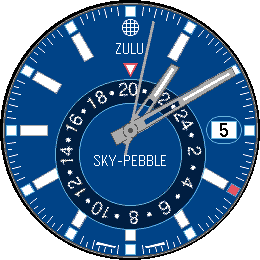
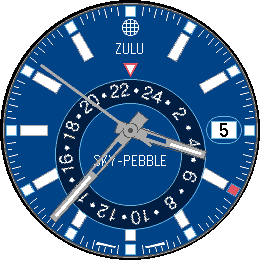
Add Bluetooth disconnect indicator in date window
When Bluetooth disconnects, the date window at 3 o'clock shows a red procedurally-drawn Bluetooth rune (persistent until reconnected) and fires a double-pulse vibration. Reconnection silently restores the date display. Priority order in the date window is: battery (tap) > BT disconnect > date.

Connection state is peeked before window_stack_push so the first frame is correct even if the watch launches while disconnected.

Also updates CLAUDE.md and README.md to document BT indicator and the previously-added seconds hand auto-disable feature.

Changed region(s): [[0.1846, 0.0615, 0.9231, 0.8615], [0.1538, 0.2462, 0.2769, 0.3385]]

diff --git a/src/c/main.c b/src/c/main.c
@@ -68,6 +68,9 @@ static AppTimer *s_battery_timer = NULL;
 static bool s_seconds_active = true;
 static AppTimer *s_seconds_timer = NULL;
 
+// Bluetooth connection state
+static bool s_bt_connected = true;
+
 // Pre-allocated paths: static dial elements (computed once in window_load)
 static GPath *s_month_paths[12];
 static GPoint s_month_pts[12][4];
@@ -449,6 +452,21 @@ static void draw_date_window(GContext *ctx, int mday) {
         graphics_draw_text(ctx, bat_buf,
             fonts_get_system_font(FONT_KEY_GOTHIC_18_BOLD),
             text_rect, GTextOverflowModeFill, GTextAlignmentCenter, NULL);
+    } else if (!s_bt_connected) {
+        // Draw Bluetooth rune in red (disconnected indicator)
+        graphics_context_set_stroke_color(ctx, GColorRed);
+        graphics_context_set_stroke_width(ctx, 1);
+        int h = 6, w = 3;
+        // Vertical line
+        graphics_draw_line(ctx, GPoint(cx, cy - h), GPoint(cx, cy + h));
+        // Lower-left to top
+        graphics_draw_line(ctx, GPoint(cx - w, cy + h / 2), GPoint(cx, cy - h));
+        // Top to lower-right
+        graphics_draw_line(ctx, GPoint(cx, cy - h), GPoint(cx + w, cy + h / 2));
+        // Upper-left to bottom
+        graphics_draw_line(ctx, GPoint(cx - w, cy - h / 2), GPoint(cx, cy + h));
+        // Bottom to upper-right
+        graphics_draw_line(ctx, GPoint(cx, cy + h), GPoint(cx + w, cy - h / 2));
     } else {
         char date_buf[4];
         snprintf(date_buf, sizeof(date_buf), "%d", mday);
@@ -637,6 +655,20 @@ static void activate_seconds(void) {
     }
 }
 
+// ============================================================================
+// BLUETOOTH CONNECTION
+// ============================================================================
+
+static void bluetooth_callback(bool connected) {
+    s_bt_connected = connected;
+    if (!connected) {
+        vibes_double_pulse();
+    }
+    if (s_canvas_layer) {
+        layer_mark_dirty(s_canvas_layer);
+    }
+}
+
 static void accel_data_handler(AccelData *data, uint32_t num_samples) {
     if (num_samples < 2) return;
 
@@ -784,6 +816,10 @@ static void init(void) {
         .load = main_window_load,
         .unload = main_window_unload
     });
+    connection_service_subscribe((ConnectionHandlers) {
+        .pebble_app_connection_handler = bluetooth_callback
+    });
+    s_bt_connected = connection_service_peek_pebble_app_connection();
     window_stack_push(s_main_window, true);
     tick_timer_service_subscribe(SECOND_UNIT, tick_handler);
     accel_data_service_subscribe(25, accel_data_handler);
@@ -792,6 +828,7 @@ static void init(void) {
 }
 
 static void deinit(void) {
+    connection_service_unsubscribe();
     accel_data_service_unsubscribe();
     if (s_battery_timer) { app_timer_cancel(s_battery_timer); s_battery_timer = NULL; }
     if (s_seconds_timer) { app_timer_cancel(s_seconds_timer); s_seconds_timer = NULL; }

diff --git a/CLAUDE.md b/CLAUDE.md
@@ -69,7 +69,7 @@ The watchface features these classic GMT complications:
 1. **Analog hands** — skeletonized hour/minute hands with transparent cutouts (4-piece fill: base, left rail, right rail, outer tip) and luminous strips, plus tapered seconds hand
 2. **24-hour GMT ring** — off-center rotating disc showing UTC time (via `gmtime()`), with red/white inverted triangle pointer
 3. **Month indicator ring** — 12 small squares around the dial at each hour position; current month shown in red, others white (Jan=1 o'clock through Dec=12 o'clock)
-4. **Date window** — white rectangle at 3 o'clock showing day of month with lens; on wrist tap, temporarily shows battery level (color-coded: green ≥40%, yellow ≥20%, red <20%) for 3 seconds
+4. **Date window** — white rectangle at 3 o'clock showing day of month with lens; on Bluetooth disconnect, shows red Bluetooth rune (persistent until reconnected) with double-pulse vibration; on wrist tap, temporarily shows battery level (color-coded: green ≥40%, yellow ≥20%, red <20%) for 3 seconds. Priority: battery > BT disconnect > date
 5. **Clean dial edge** — polished light/dark concentric rings (no fluted bezel)
 6. **Baton indices** — rectangular hour markers with light grey border, uniform size at all positions (skipping 12 and 3 o'clock)
 7. **Brand text** — "SKY-PEBBLE" below center, decorative marks at bottom flanking 6 o'clock

diff --git a/README.md b/README.md
@@ -7,10 +7,11 @@ Analog watchface with GMT and annual calendar complications for the Pebble Round
 ## Features
 
 - Skeletonized hour and minute hands with transparent cutouts and luminous strips
-- Tapered seconds hand
+- Tapered seconds hand with motion-activated auto-disable (hides after 30s of inactivity for battery savings)
 - 24-hour GMT ring showing UTC time with red/white triangle pointer
 - Month indicator ring (current month highlighted in red)
 - Date window at 3 o'clock with magnifier lens (tap wrist to show battery level, color-coded by charge)
+- Bluetooth disconnect indicator (red Bluetooth rune in date window + vibration alert)
 - "SKY-PEBBLE" brand text and decorative marks
 - Clean polished dial edge
 - Earth/ZULU icon at 12 o'clock
